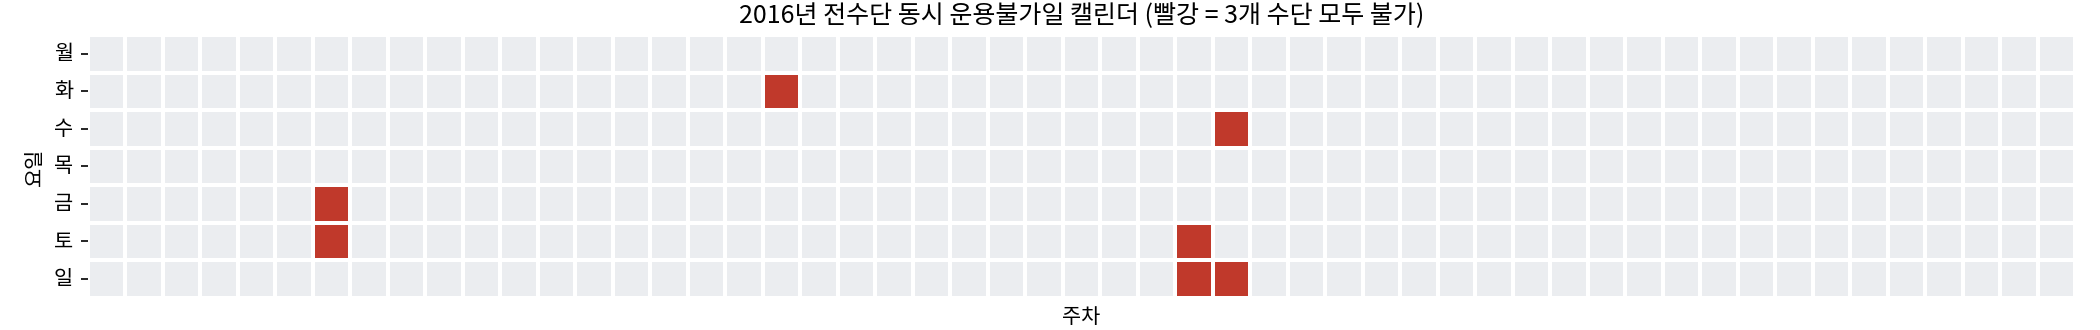
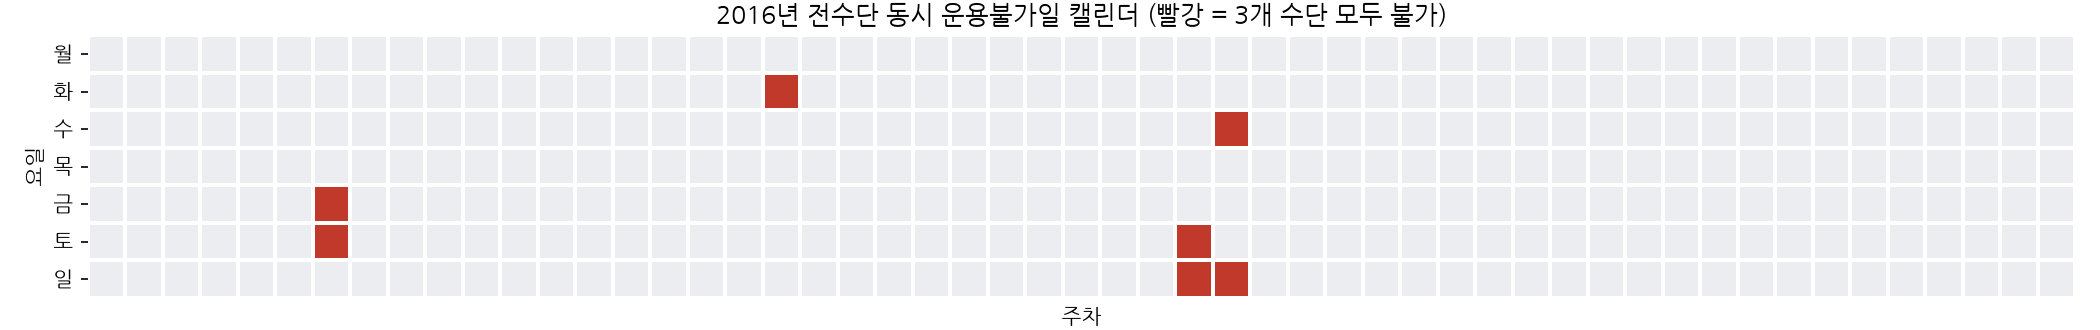
Fix silent Korean font fallback and regenerate all figures from real data
Figures rendered Korean as tofu boxes on any machine lacking one hardcoded
font path. src/visualize.py pointed at
/usr/share/fonts/opentype/noto/NotoSansCJK-Regular.ttc and wrapped the load in
`except Exception: pass`, so a missing file silently fell back to DejaVu Sans
and produced unreadable labels with no error. 03_isolation_calendar_2025.png
was committed in that broken state.

- src/visualize.py: replace the hardcoded path with a candidate list (Noto CJK,
  Nanum, AppleGothic, Malgun), then a registered-font scan, and warn loudly
  instead of passing silently when no Korean font is found. Set font.family to
  a [Korean, DejaVu Sans] fallback chain.
- src/visualize.py: plot_return_level now formats the log y-axis with a plain
  decimal FuncFormatter. The default log formatter emits mathtext (10^-1) whose
  U+2212 is absent from NanumGothic, so the exponent rendered as a box.
- run_analysis.py: generate calendars for both the worst and the most recent
  year, so 03_isolation_calendar_2025.png is reproducible rather than a stale
  leftover from the synthetic-data commit.
- outputs/: regenerate all 8 figures from the real Baengnyeongdo 2016-2025 data.

outputs/threshold_sweep_ship.csv also changes. The committed file was produced
before the observation-coverage filter landed in 5aacb61; recomputing with
min_coverage_hours=0 reproduces the old values exactly, confirming it was a
stale pre-bugfix artifact inconsistent with the shipped code and with every
[…]

diff --git a/src/visualize.py b/src/visualize.py
@@ -12,21 +12,61 @@ import matplotlib
 matplotlib.use("Agg")
 import matplotlib.pyplot as plt
 import matplotlib.font_manager as fm
+import matplotlib.ticker as ticker
 import seaborn as sns
 import pandas as pd
 import numpy as np
+import warnings
 from pathlib import Path
 
-# 한글 폰트 설정 (Noto Sans CJK KR — 컨테이너에 설치되어 있음)
-KOREAN_FONT_PATH = "/usr/share/fonts/opentype/noto/NotoSansCJK-Regular.ttc"
-try:
-    fm.fontManager.addfont(KOREAN_FONT_PATH)
-    # matplotlib only registers the first face of a .ttc collection;
-    # for this Noto Sans CJK Regular file that face resolves to "Noto Sans CJK JP",
-    # which still contains full Hangul coverage, so it renders Korean correctly.
-    plt.rcParams["font.family"] = "Noto Sans CJK JP"
-except Exception:
-    pass
+# ── 한글 폰트 설정 ──────────────────────────────────────────
+# 환경마다 설치된 한글 폰트가 다르므로 고정 경로에 의존하지 않는다.
+# 후보를 순서대로 시도하고, 하나도 없으면 조용히 넘어가지 말고 경고한다.
+# (조용히 실패하면 그래프의 한글이 모두 □ 로 깨진 채 생성된다.)
+_FONT_CANDIDATES = [
+    "/usr/share/fonts/opentype/noto/NotoSansCJK-Regular.ttc",
+    "/usr/share/fonts/opentype/noto/NotoSansCJKkr-Regular.otf",
+    "/usr/share/fonts/truetype/nanum/NanumGothic.ttf",
+    "/usr/share/fonts/truetype/nanum/NanumBarunGothic.ttf",
+    "/Library/Fonts/AppleGothic.ttf",            # macOS
+    "C:/Windows/Fonts/malgun.ttf",               # Windows
+]
+
+
+def _setup_korean_font() -> str | None:
+    """사용 가능한 한글 폰트를 찾아 matplotlib 기본 폰트로 등록한다."""
+    # 1) 알려진 경로 탐색
+    for path in _FONT_CANDIDATES:
+        if Path(path).exists():
+            try:
+                fm.fontManager.addfont(path)
+                name = fm.FontProperties(fname=path).get_name()
+                # 한글 폰트 우선, 없는 글리프(U+2212 등)는 DejaVu Sans로 폴백.
+                # NanumGothic 등 일부 한글 폰트는 유니코드 마이너스가 없어
+                # 로그축 지수(10⁻¹)가 □로 깨진다.
+                plt.rcParams["font.family"] = [name, "DejaVu Sans"]
+                return name
+            except Exception:
+                continue
+
+    # 2) 경로에 없으면 등록된 폰트 중 한글 이름을 가진 것을 탐색
+    for keyword in ("Noto Sans CJK", "NanumGothic", "NanumBarunGothic",
+                    "Malgun Gothic", "AppleGothic", "WenQuanYi"):
+        for f in fm.fontManager.ttflist:
+            if keyword.lower() in f.name.lower():
+                plt.rcParams["font.family"] = [f.name, "DejaVu Sans"]
+                return f.name
+
+    warnings.warn(
+        "한글 폰트를 찾지 못했습니다. 그래프의 한글이 깨져(□) 출력됩니다.\n"
+        "  Ubuntu/Debian: sudo apt-get install -y fonts-nanum && fc-cache -f\n"
+        "  macOS/Windows: 시스템 기본 한글 폰트가 자동 탐지됩니다.",
+        RuntimeWarning, stacklevel=2,
+    )
+    return None
+
+
+KOREAN_FONT = _setup_korean_font()
 plt.rcParams["axes.unicode_minus"] = False
 
 FIG_DIR = Path(__file__).resolve().parent.parent / "outputs" / "figures"
@@ -183,6 +223,15 @@ def plot_return_level(return_analysis: dict, recommended: int = 3) -> Path:
     ax.set_ylabel("연최대 초과확률 (로그척도)")
     ax.set_title("재현기간별 고립 수준 — 복합 포아송-기하 모형")
     ax.set_xticks(days)
+
+    # 로그축 기본 눈금은 mathtext(10^{-1})로 그려지는데, 일부 한글 폰트에는
+    # 유니코드 마이너스(U+2212)가 없어 지수가 □로 깨진다.
+    # mathtext를 쓰지 않는 일반 소수 표기로 고정해 환경에 관계없이 안전하게 만든다.
+    ax.yaxis.set_major_formatter(ticker.FuncFormatter(
+        lambda y, _: ("0" if y == 0 else
+                      f"{y:.10f}".rstrip("0").rstrip(".") if y < 1 else f"{y:g}")))
+    ax.yaxis.set_minor_formatter(ticker.NullFormatter())
+
     ax.grid(alpha=0.25, which="both")
     fig.tight_layout()
     out = FIG_DIR / "06_return_level.png"

diff --git a/run_analysis.py b/run_analysis.py
@@ -113,12 +113,15 @@ def main():
     print(f"      예시 시나리오 판정: {example['판정']}")
 
     # ── 그래프 생성 ──
-    print("\n[그래프] 4종 그래프 생성 중...")
+    print("\n[그래프] 기본 그래프 생성 중...")
     figs = []
     figs.append(plot_monthly_heatmap(seasonal_table, station_name))
     figs.append(plot_annual_isolation_trend(per_year_iso, safety["권고_안전재고_일수"]))
-    demo_year = int(per_year_iso.loc[per_year_iso["max_isolation_days"].idxmax(), "year"])
-    figs.append(plot_isolation_calendar(daily, demo_year))
+    # 캘린더는 2종: 최악 연도 + 최근 연도 (대비를 보여주기 위함)
+    worst_year = int(per_year_iso.loc[per_year_iso["max_isolation_days"].idxmax(), "year"])
+    latest_year = int(per_year_iso["year"].max())
+    for yr in dict.fromkeys([worst_year, latest_year]):
+        figs.append(plot_isolation_calendar(daily, yr))
     figs.append(plot_limiting_factor_breakdown(breakdown))
     for f in figs:
         print(f"      저장됨: {f}")
